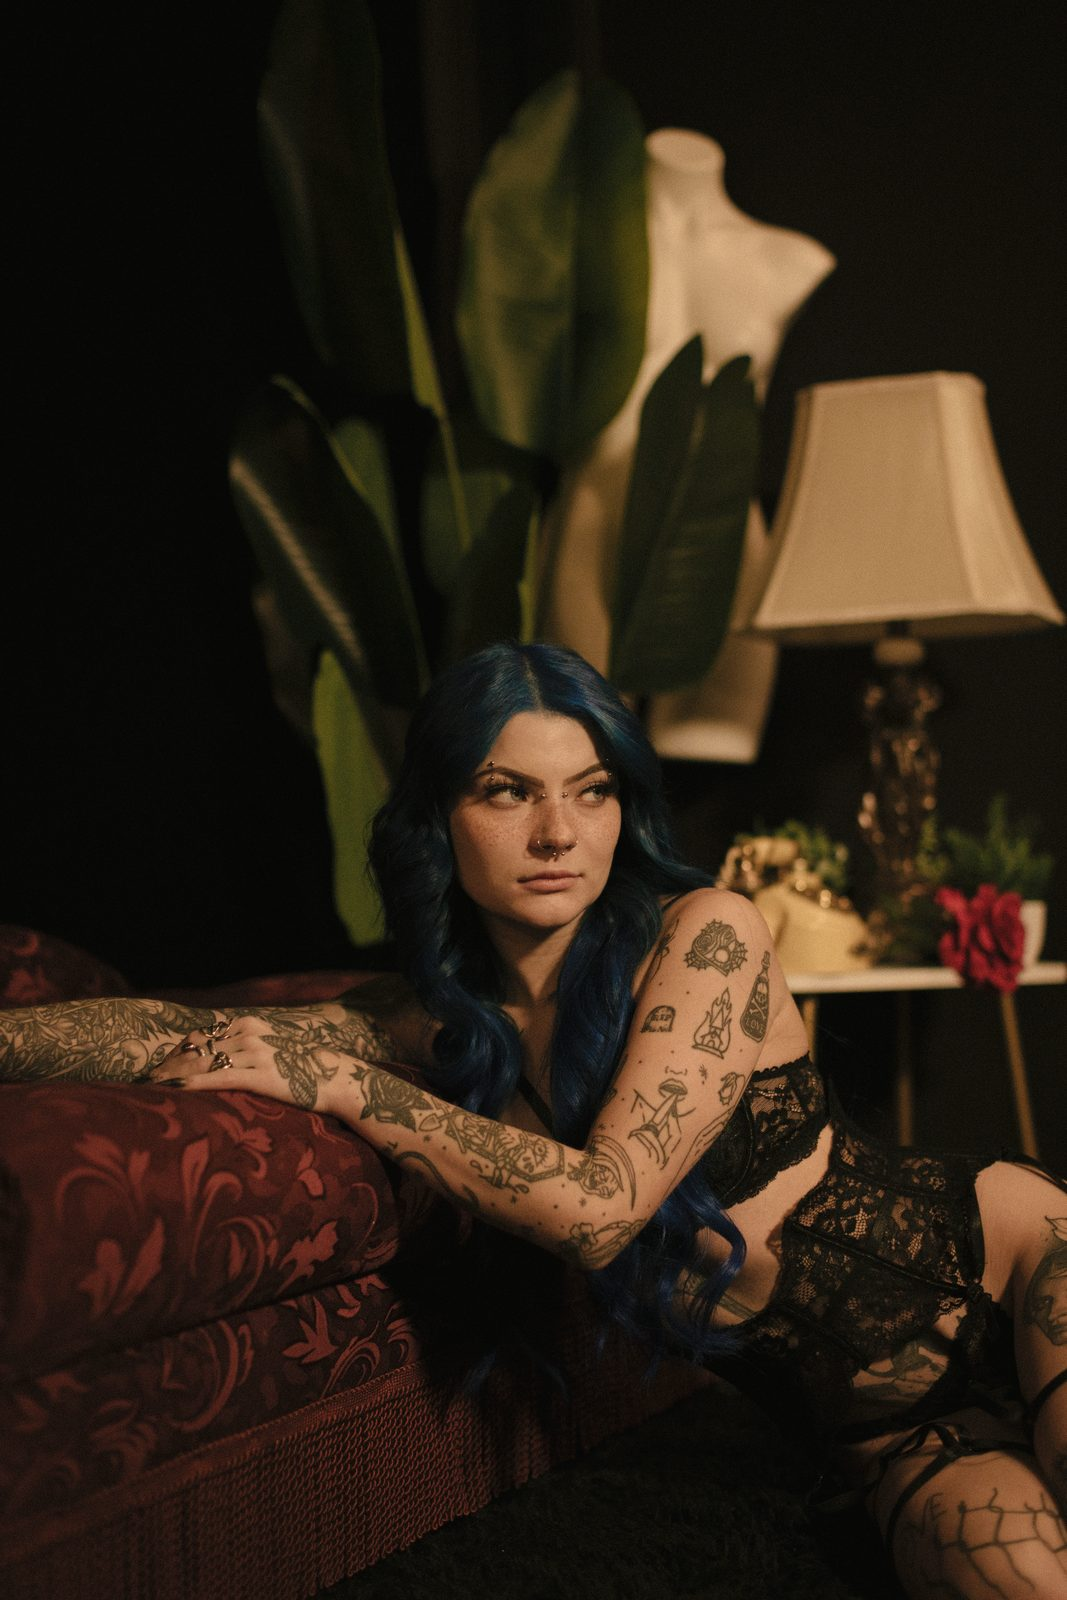
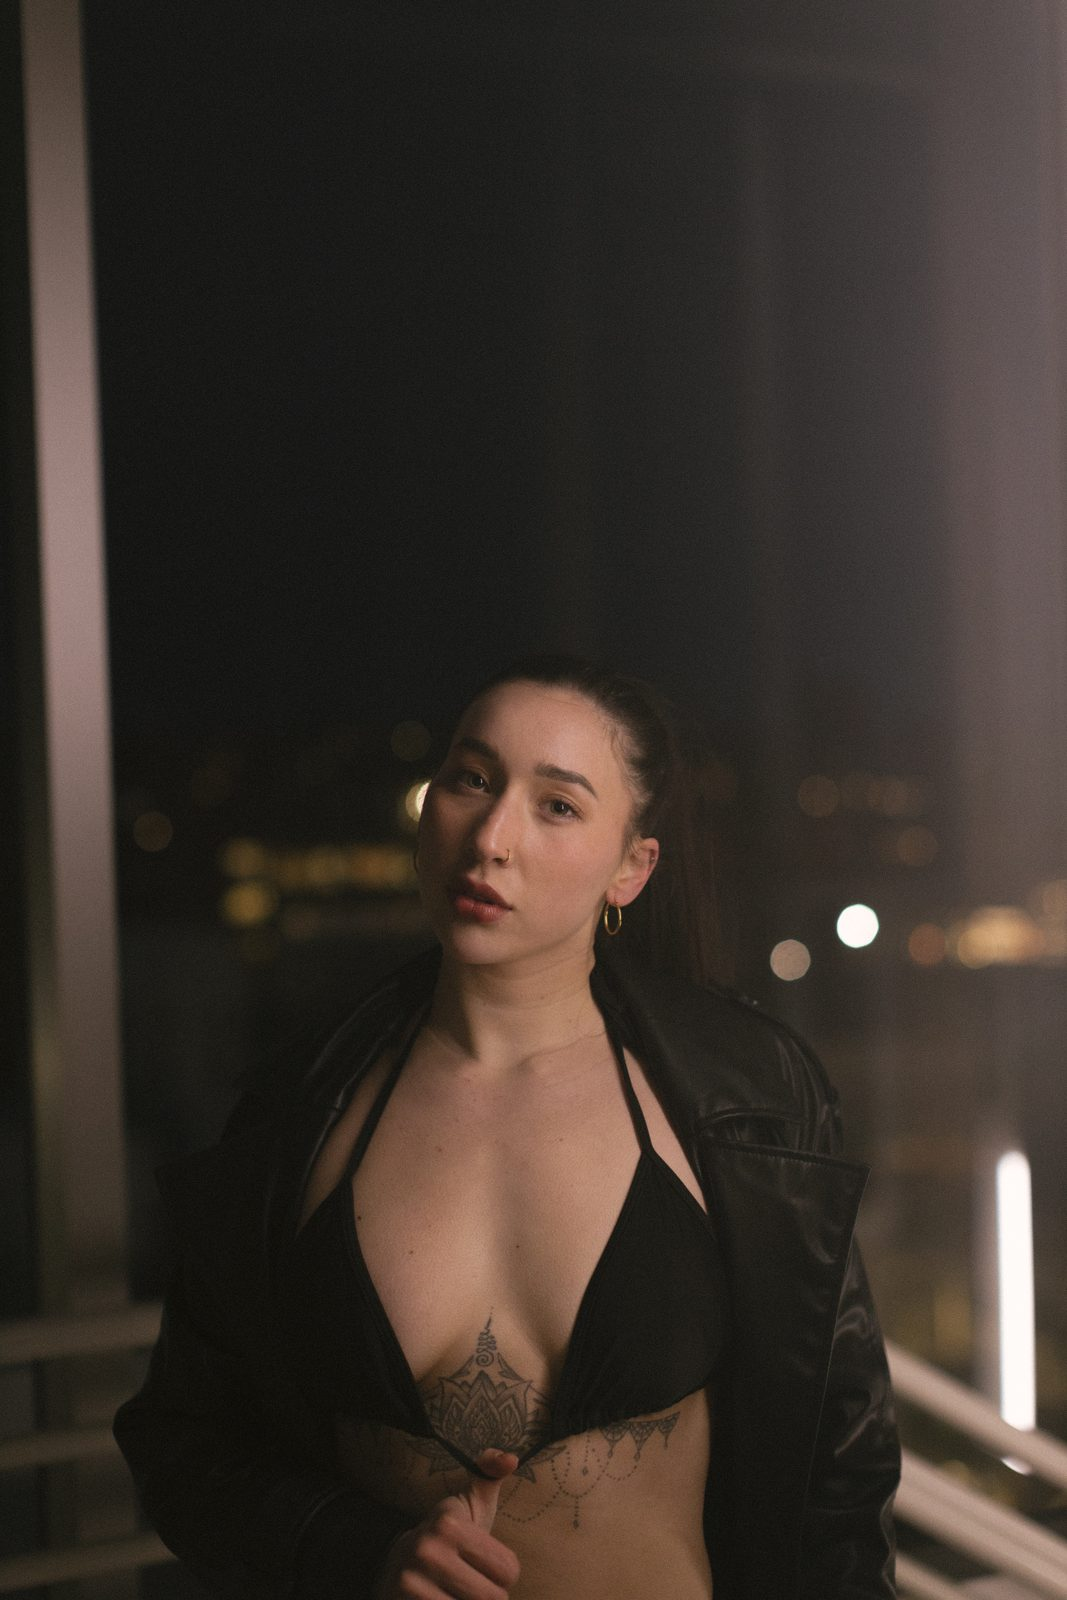
Boudoir tab: swap tiles 06, 09, 10, 11 and 12
Claude-Session: https://claude.ai/code/session_018g8U2vnhGmFQsDK5oioiXt

diff --git a/js/content.js b/js/content.js
@@ -381,8 +381,8 @@ window.NOKA = {
     { src: "images/boudoir-07.jpg"     , cat: "boudoir"   , ratio: "2/3", alt: "Laughing in a clawfoot tub by the bathroom window" },
     { src: "images/boudoir-08.jpg"     , cat: "boudoir"   , ratio: "2/3", alt: "Copper satin slip and robe in a home kitchen" },
     { src: "images/boudoir-09.jpg"     , cat: "boudoir"   , ratio: "2/3", alt: "Black bodysuit, kneeling on a bed in soft window light" },
-    { src: "images/boudoir-10.jpg"     , cat: "boudoir"   , ratio: "2/3", alt: "Floral lace bra, leaning out of an open window" },
-    { src: "images/boudoir-11.jpg"     , cat: "boudoir"   , ratio: "2/3", alt: "Black lace on a red velvet sofa with a vintage lamp" },
+    { src: "images/boudoir-10.jpg"     , cat: "boudoir"   , ratio: "2/3", alt: "Red stockings and heels kicked up over a cream sofa" },
+    { src: "images/boudoir-11.jpg"     , cat: "boudoir"   , ratio: "2/3", alt: "Black bra and open jacket against city lights at night" },
     { src: "images/boudoir-12.jpg"     , cat: "boudoir"   , ratio: "2/3", alt: "White lace, seated on the floor of a bright room with white shelves" }
   ]
 };
